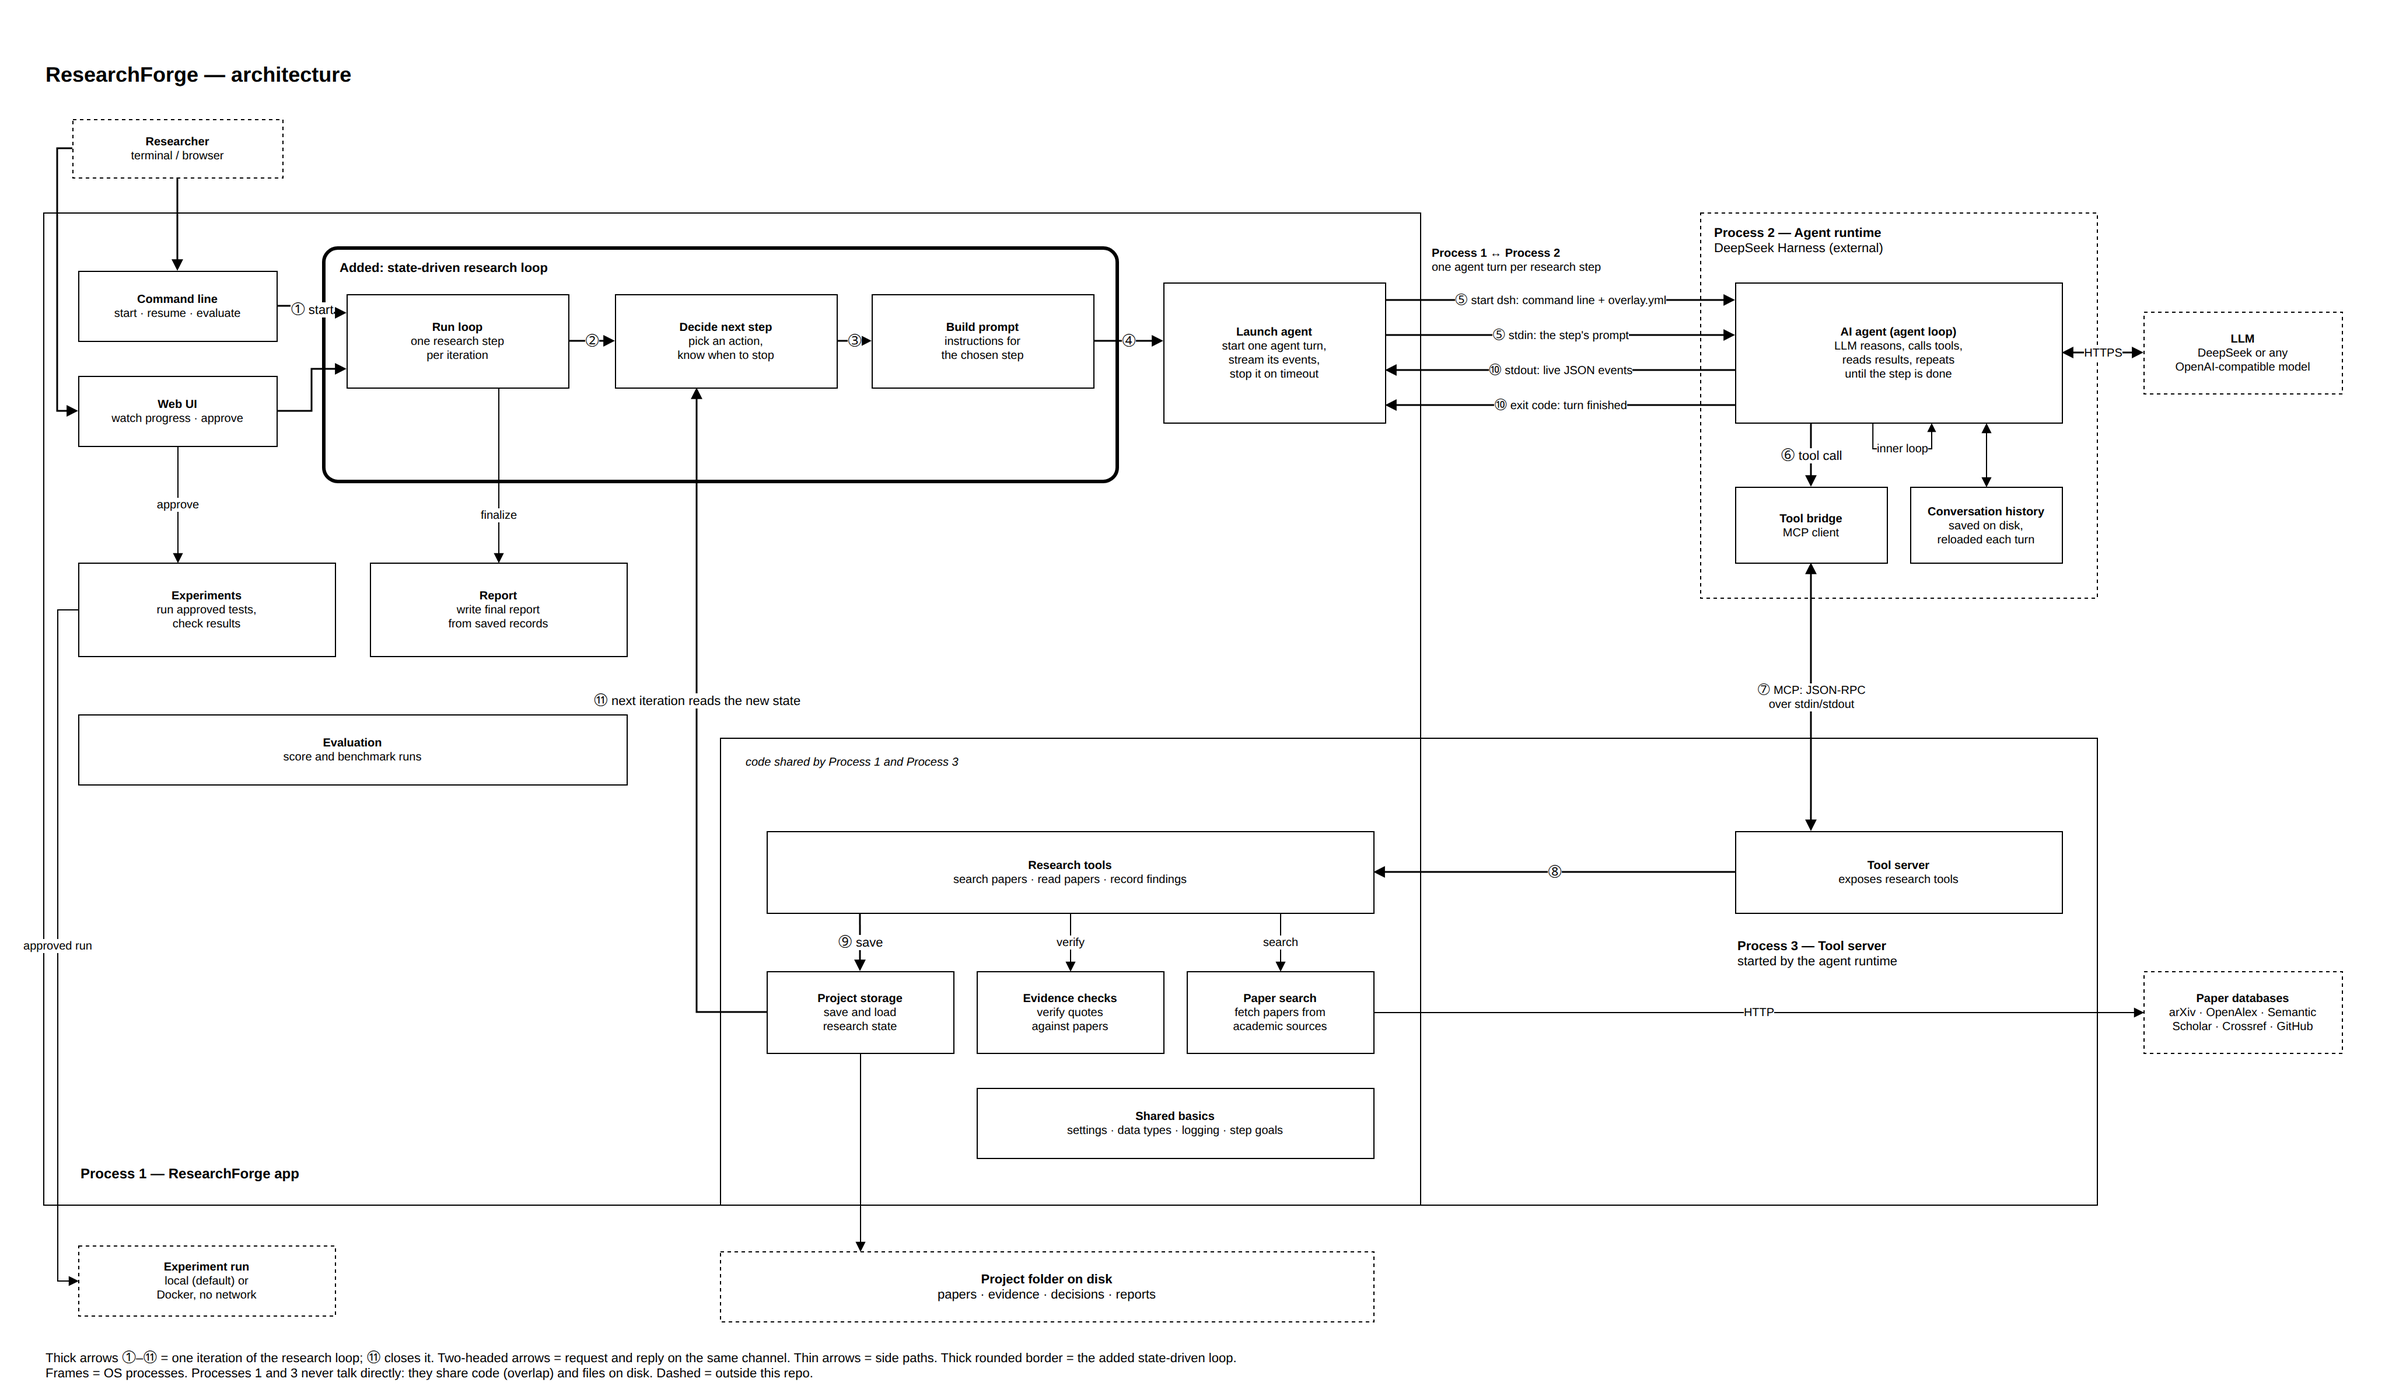
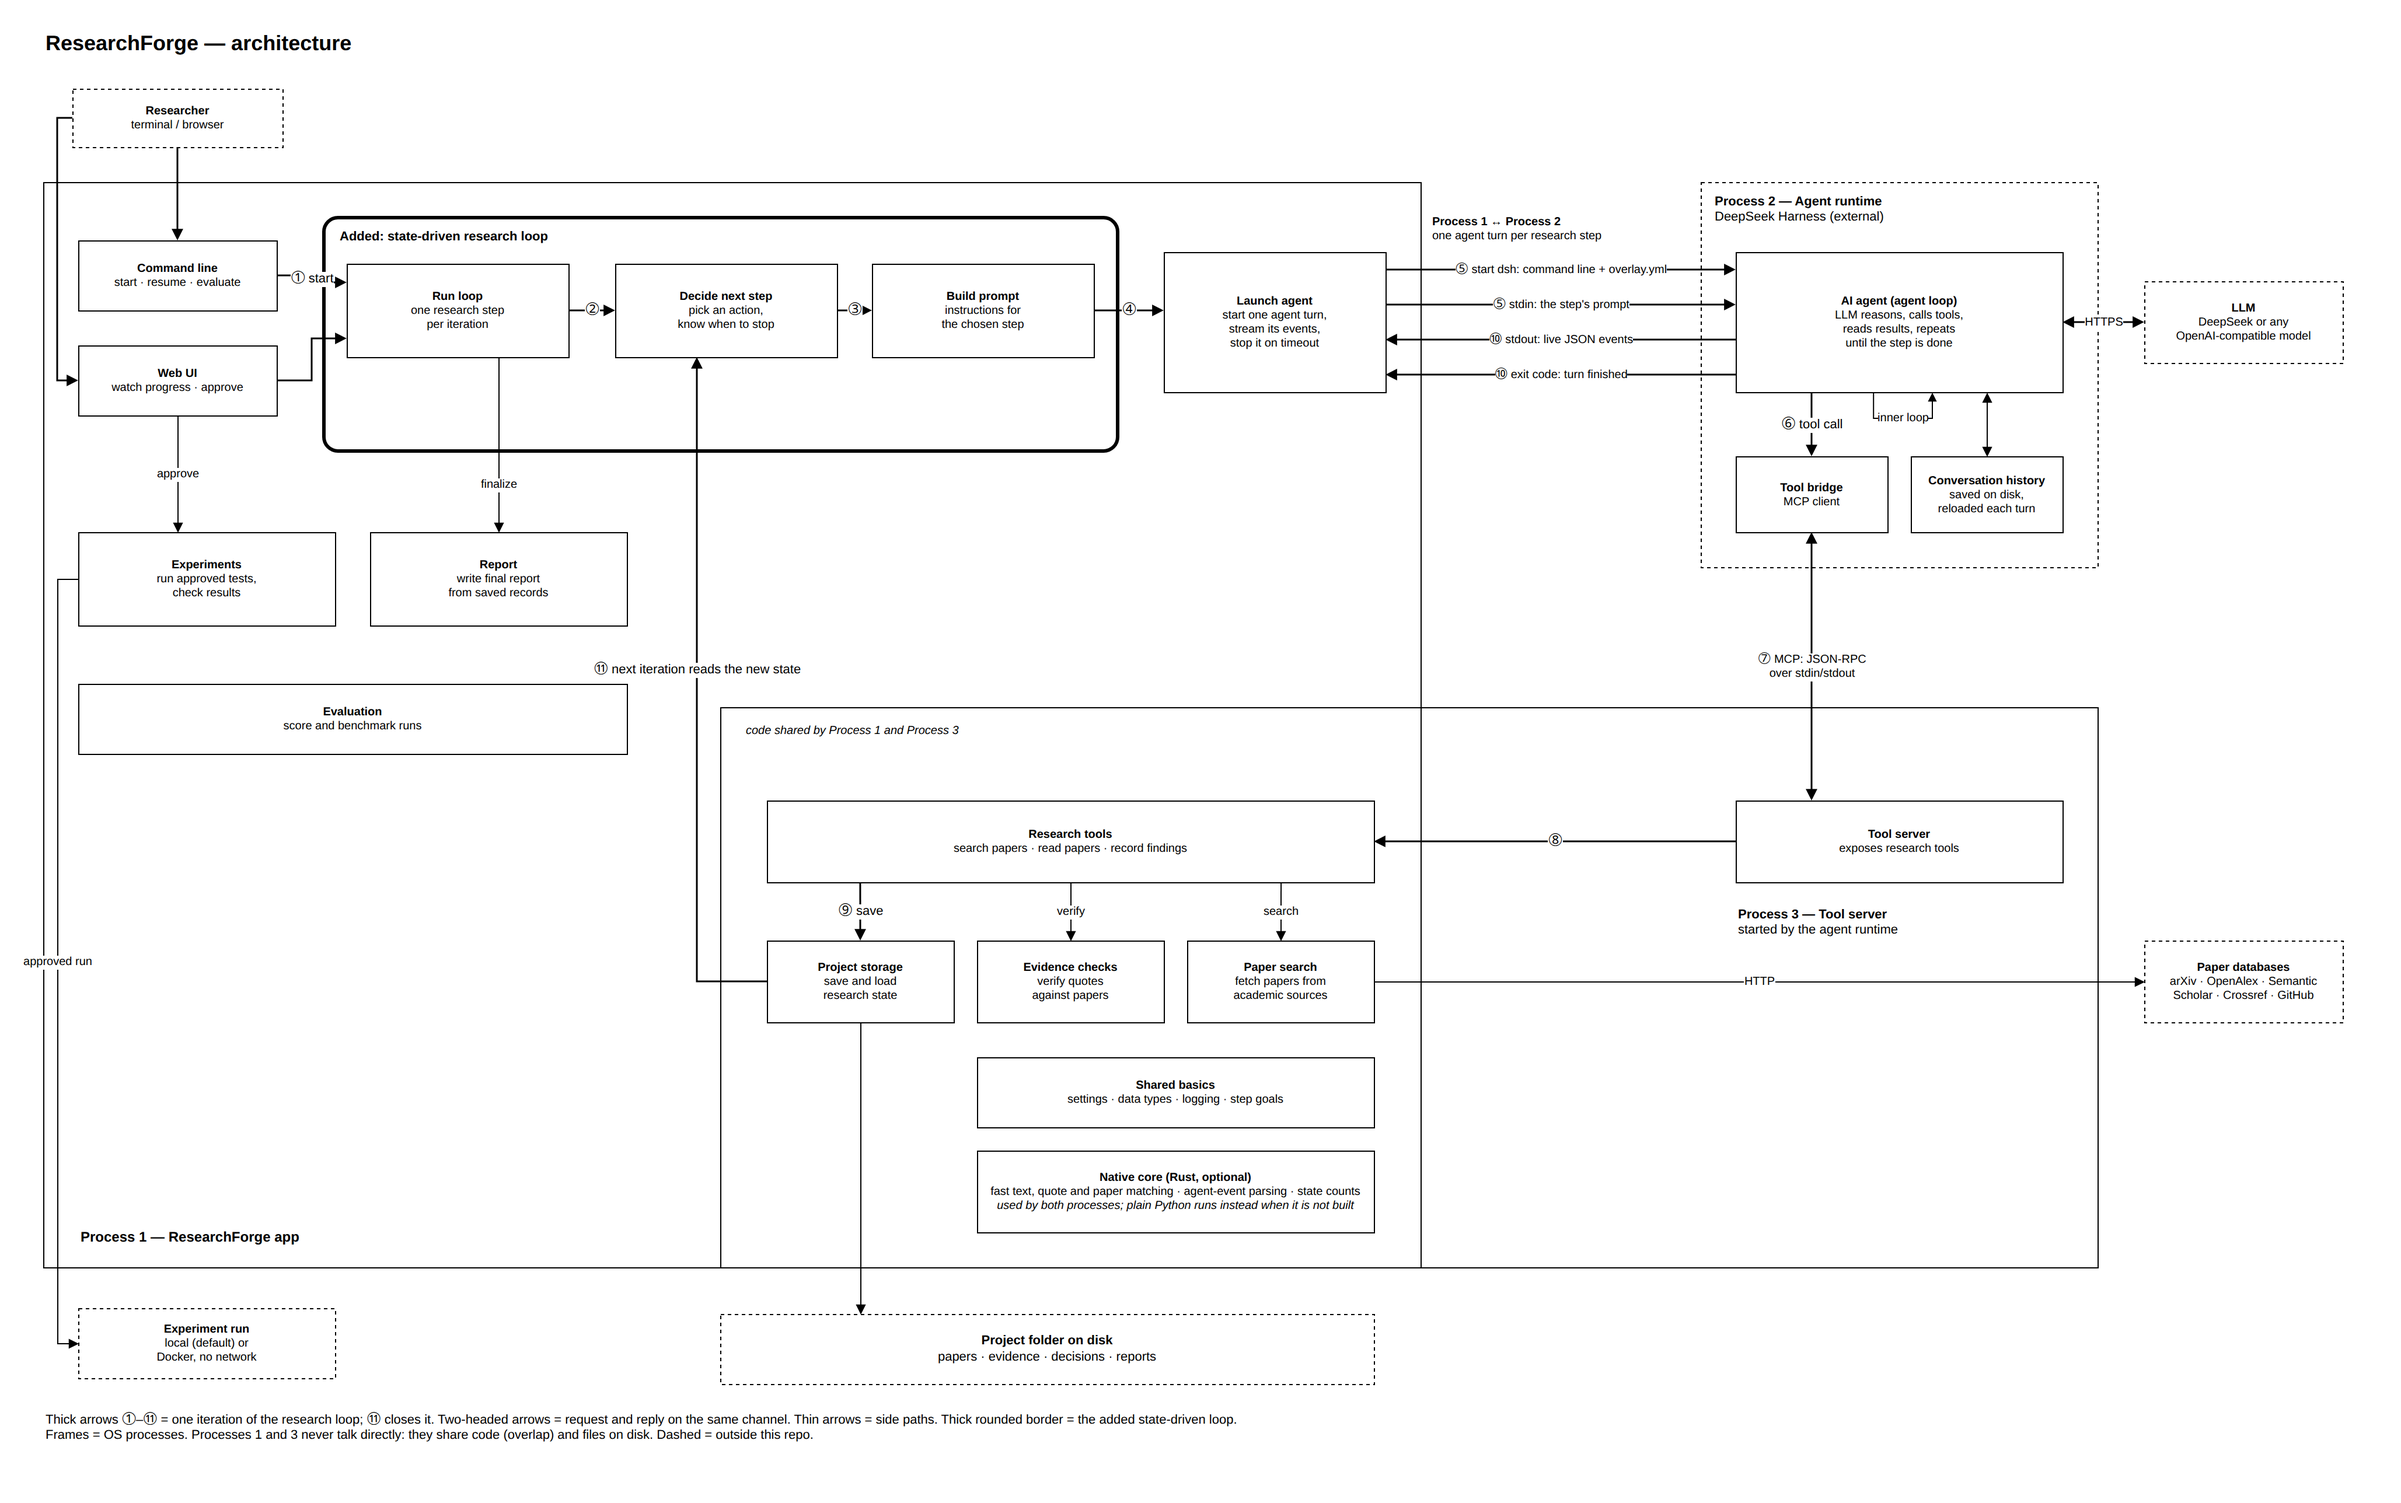
docs: update system architecture documentation and diagrams

diff --git a/README.md b/README.md
@@ -2,11 +2,9 @@
 
 **ResearchForge turns a research idea into an evidence-backed investigation.**
 
-![A real 29-minute investigation of "Does retrieval-augmented generation reduce hallucinations in clinical question answering compared with fine-tuning alone?", shown at 60x speed](docs/media/live-run.gif)
+![Overview of a finished investigation: assessment, research decision and the case in brief](docs/media/screenshots/rag-overview.png)
 
-*A real investigation at 60× speed: 173 papers retrieved, 46 analyzed, verdict "promising, but it needs experimental validation". Watch the [narrated demo](docs/media/demo-narrated.mp4) (2½ min, with sound).*
-
-![Overview of the finished investigation: assessment, research decision and the case in brief](docs/media/screenshots/rag-overview.png)
+*A real investigation of "Does retrieval-augmented generation reduce hallucinations in clinical question answering compared with fine-tuning alone?": 173 papers retrieved, 46 analyzed. Watch the [narrated demo](docs/media/demo-narrated.mp4) (2½ min, with sound).*
 
 Give it an idea such as *"Can request-aware dynamic KV-cache management reduce LLM inference memory and latency without significantly degrading accuracy?"* and it autonomously:
 
@@ -24,15 +22,9 @@ It never tells you an idea is novel because a model thinks so. A claim labelled 
 
 ResearchForge is built on [DeepSeek Harness](https://github.com/deepseek-ai/deepseek-harness) (`dsh`) and requires no changes to it. See [docs/ARCHITECTURE.md](docs/ARCHITECTURE.md).
 
-```text
-researchforge CLI / web UI (Python)
-        │  one phase = one dsh headless turn, same dsh session throughout
-        ▼
-DeepSeek Harness (unmodified): agent loop · model adapters · sessions · compaction · sandbox
-        │  @deepseek-ai/dsh-mcp-client (stdio)
-        ▼
-researchforge.mcp_server → literature clients · evidence checks · research workspace
-```
+[![ResearchForge architecture: the ResearchForge app, the DeepSeek Harness agent runtime and the tool server, with one iteration of the research loop numbered 1 to 11](docs/diagrams/architecture.png)](docs/diagrams/architecture.png)
+
+Click the diagram for full size. Source: [docs/diagrams/architecture.drawio](docs/diagrams/architecture.drawio) (open it in [draw.io](https://app.diagrams.net)). The optional Rust core is a native library loaded through `ctypes`; when it is not built, the same functions run in pure Python.
 
 ## Quick start
 
@@ -91,13 +83,6 @@ ResearchForge does not run a fixed script. On each step, a controller reads the 
 ## Web UI
 
 `researchforge serve` starts a local, dependency-free UI. The home page is a single landing page (what ResearchForge does, how an investigation runs, what you get, how it runs on your terms) with the idea form in the hero. Enter an idea, press **Investigate research idea**, and follow progress in the numbered rail on the left. The rail doubles as navigation: **Overview, Literature, Research map, Critique, Potential gaps, Modifications, Experiments, Final report**, plus the **Evidence ledger** and an activity log. Every statement carries a margin rule that shows how certain it is: solid for evidence (a verified quote), dashed for inference, dotted for hypothesis, double for an experimental result. An executable experiment offers **Preview commands**, then **Approve and run**.
-
-| | |
-|---|---|
-| ![Home page with the idea form and an example from the evidence ledger](docs/media/screenshots/rag-home.png) | ![Critique: the strongest arguments for and against the idea](docs/media/screenshots/rag-critique.png) |
-| **Home.** Enter an idea and start an investigation. | **Critique.** The case against the idea, argued as seriously as the case for it. |
-| ![Potential gaps: one gap with its supporting quotes](docs/media/screenshots/rag-gaps.png) | ![Evidence ledger in dark mode, with verified quotes](docs/media/screenshots/rag-evidence.png) |
-| **Potential gaps.** Each gap is tied to the passages that suggest it. | **Evidence ledger** (dark mode). Every quote is checked word for word against the source. |
 
 The UI opens in light mode; **Dark mode** in the header switches it and the choice is remembered in the browser. The design follows Anthropic's `frontend-design` skill (Apache-2.0) and the `taste-skill` / `redesign-skill` pair from [Leonxlnx/taste-skill](https://github.com/Leonxlnx/taste-skill) (MIT), all vendored in `.claude/skills/`. The visual theme is the Atlas Admin design system, specified in [docs/DESIGN.md](docs/DESIGN.md). Fonts are self-hosted from `web/static/fonts/`: Inter for text and IBM Plex Mono for figures and labels, both under the SIL Open Font License (license files alongside).
 

diff --git a/docs/ARCHITECTURE.md b/docs/ARCHITECTURE.md
@@ -31,8 +31,8 @@ The same patch is also shipped as an installable **dsh bundle** (`dsh-bundle/`),
                         researchforge CLI / Web UI  (Python)
                                      │
                           ResearchOrchestrator
-             phases · completion gates · state digest · event log
-                                     │  one phase = one dsh turn (same session)
+      controller (next action) · coverage gates · state digest · event log
+                                     │  one action = one dsh turn (same session)
                                      ▼
  ┌──────────────── DeepSeek Harness (unmodified, dsh --profile headless) ────────────────┐
  │  agent-loop ── llm adapter (deepseek-official | pi-ai → Qwen/Llama/Mistral/… endpoint)│
@@ -46,6 +46,11 @@ The same patch is also shipped as an installable **dsh bundle** (`dsh-bundle/`),
         literature clients (arXiv · OpenAlex · Semantic Scholar · Crossref · GitHub)
         evidence manager (quote verification, paper-id validation)
         record_* tools → research workspace (idea.yaml, papers/, evidence/, …)
+                                     ┆
+             researchforge_core  (Rust cdylib via ctypes, optional)
+   normalization · quote matching · passage search · dedup · dsh event parsing · counts
+         used by evidence, literature, workspace, runtime and the controller;
+                 each call falls back to Python when the library is absent
 ```
 
 ## 3. Files that need modification in DeepSeek Harness
@@ -83,6 +88,8 @@ src/researchforge/
   evaluation/                    Retrieval, grounding, plan-completeness and efficiency metrics
   web/                           FastAPI app + dependency-free HTML/JS UI
   cli.py                         investigate · resume · report · experiment · status · serve · eval · doctor
+  _rust.py                       ctypes bindings to researchforge_core; callers fall back to Python without it
+crates/researchforge_core/       Zero-dependency Rust library: text, quotes, literature dedup, dsh events, workspace counts
 dsh-bundle/                      Installable dsh bundle (package.json with dsh.bundle + cordis.patch.yml)
 tests/                           Unit tests (mocked HTTP + scripted runtime) and an opt-in dsh e2e test
 docs/                            This file, evaluation guide
